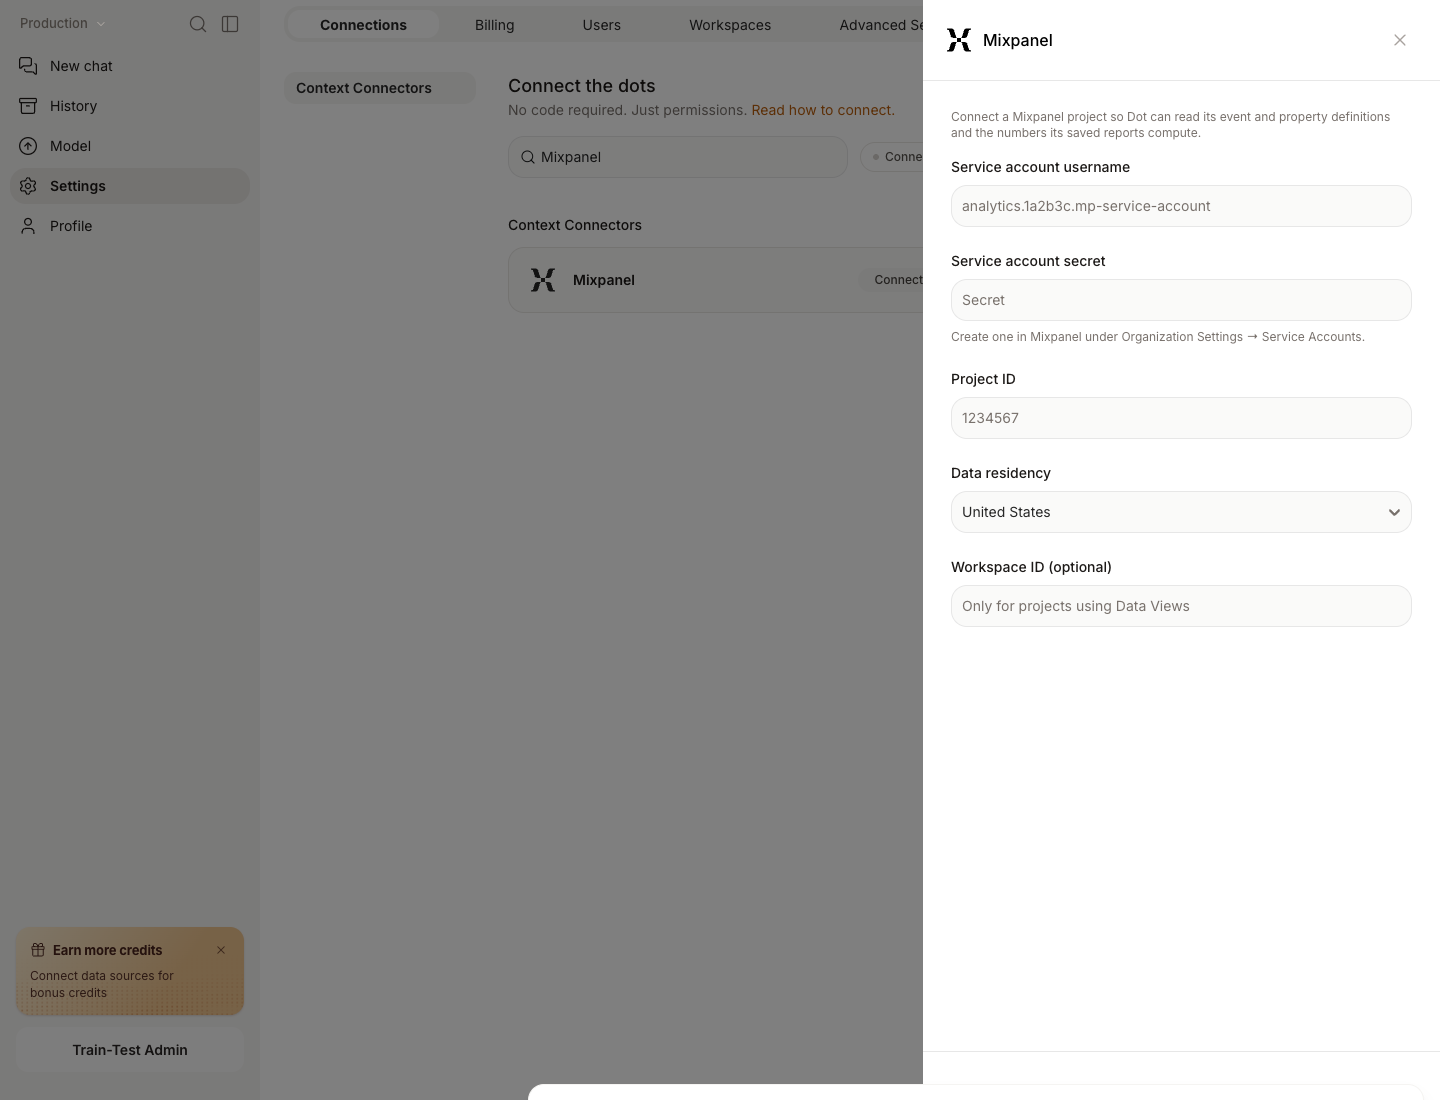
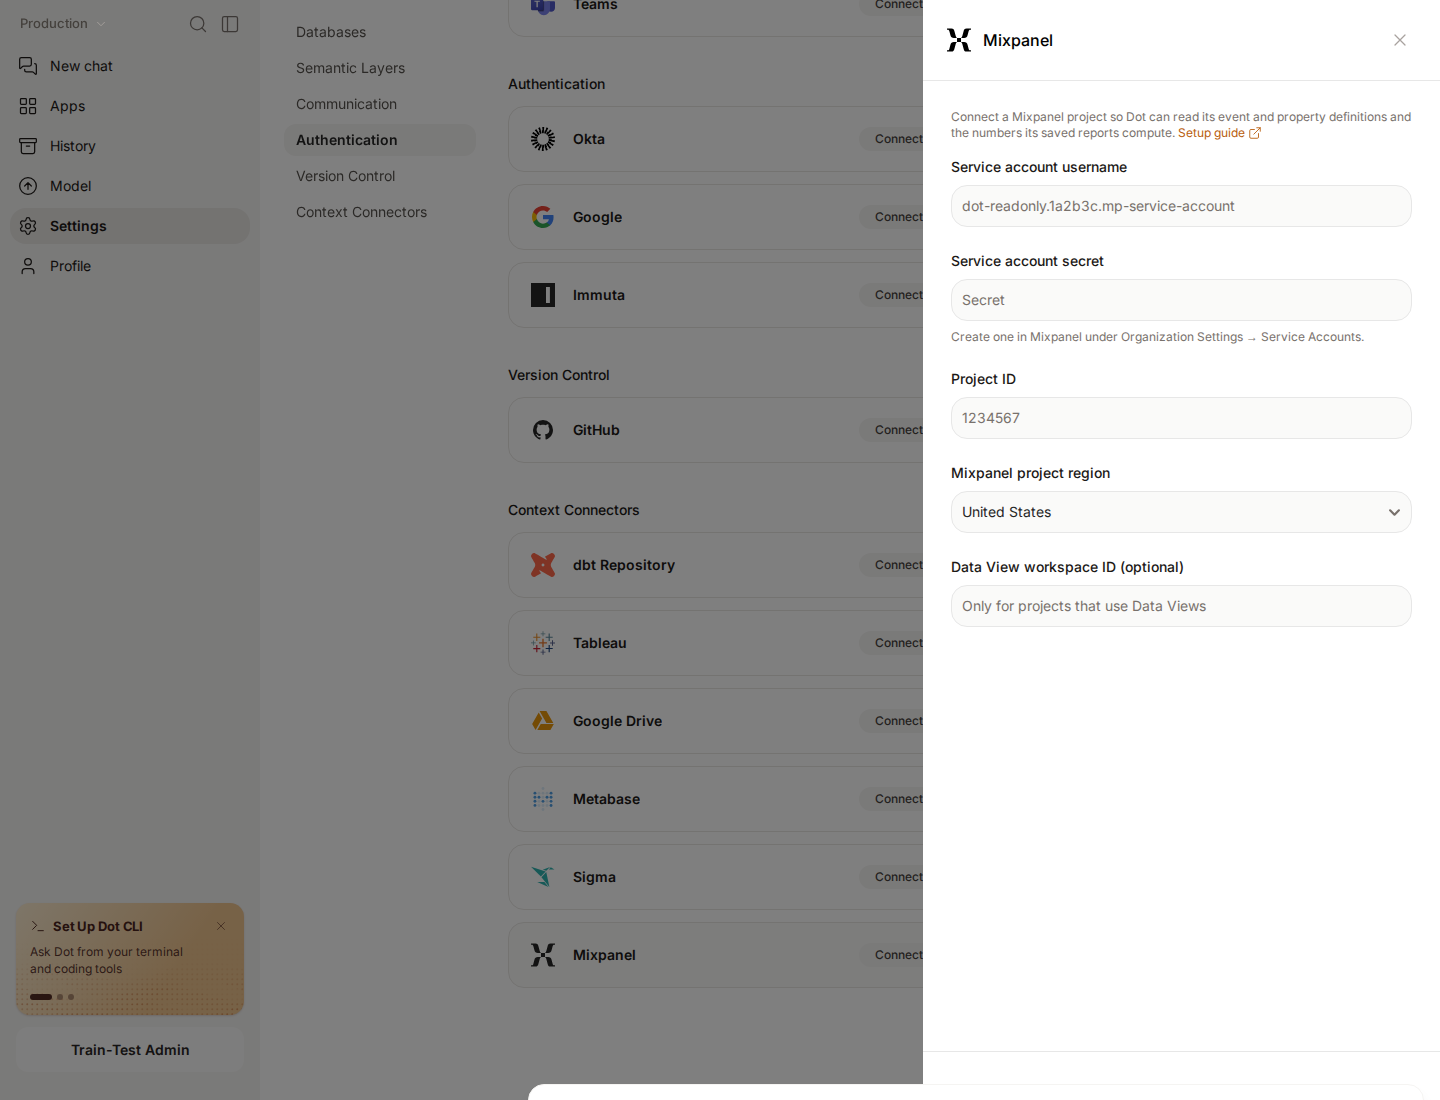
docs: clarify Mixpanel connection scope

diff --git a/dot/dot/integrations/bi-tools/README.md b/dot/dot/integrations/bi-tools/README.md
@@ -22,6 +22,8 @@ To try it, connect the BI tool first, then ask Dot something like "migrate our W
 
 Connect Mixpanel when you want Dot to read your event definitions, cohorts, funnels, and saved report results. Dot reads this information when it needs it. It does not import events or change your Mixpanel project.
 
+This connection does not recreate a Mixpanel board as a Dot app. Mixpanel's Query API does not expose the board layout or list its report definitions.
+
 ### Before you connect
 
 Your Mixpanel plan must include Query API access. Mixpanel rejects these reads on plans without it, even when the service account is valid.
@@ -45,8 +47,8 @@ Consumer is enough for this connection. Do not grant Admin just to connect Mixpa
 2. Search for **Mixpanel** and open the connection.
 3. Enter the service account username and secret.
 4. Enter the Mixpanel Project ID.
-5. Select the project's data residency.
-6. Enter a Workspace ID only if the project uses Data Views.
+5. Select the Mixpanel project region. Dot uses this to send requests to the right regional API.
+6. Enter the Data View workspace ID only if the project uses Data Views. Otherwise, leave it blank.
 7. Select **Connect Mixpanel**.
 
 Dot saves the connection only after Mixpanel confirms that the account can use the Query API for that project. If the project plan does not include Query API access, Dot tells you to upgrade the plan and leaves the connection unsaved.
